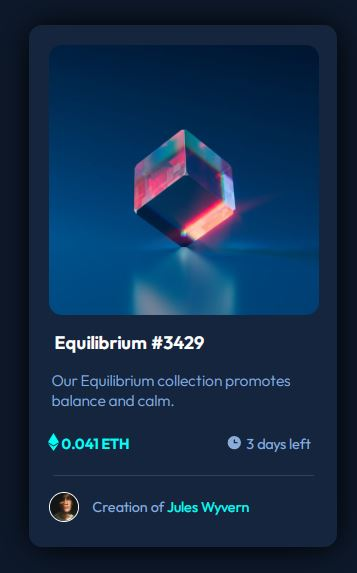
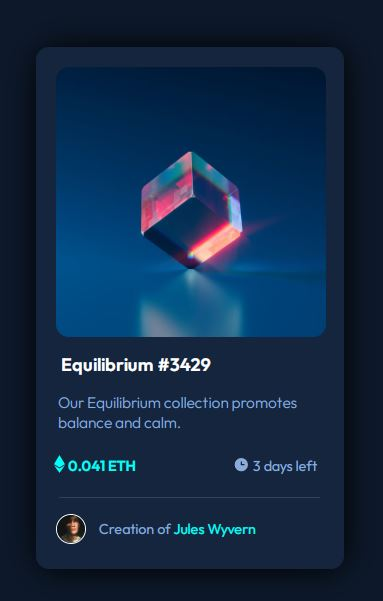
Centered card and README.md Update

diff --git a/style.css b/style.css
@@ -5,6 +5,10 @@
 body {
     background-color: hsl(217, 54%, 11%);
     box-sizing: border-box;
+    display: flex;
+    flex-direction: column;
+    align-items: center;
+    justify-content: center;
 }
 
 .content {

diff --git a/README.md b/README.md
@@ -10,18 +10,19 @@ This is a solution to the [NFT preview card component challenge on Frontend Ment
 
 ### Links
 
-- Solution URL: [Add solution URL here](https://your-solution-url.com)
+- Solution URL: [NFT Preview Card](https://dejair-velozo.github.io/nft-preview-card-component-main/)
 
 ### Built with
 
 - Semantic HTML5 markup
 - CSS custom properties
+- Flexbox
 
 ### What I learned
 
-I've learned more about Semantic HTML and plain CSS. I will keep practicing so i can improve even more.
+I've learned more about Semantic HTML, plain CSS and Flexbox. I will keep practicing so i can improve even more.
 
 ## Author
 
-- Frontend Mentor - [@yourusername](https://www.frontendmentor.io/profile/dejair-velozo)
+- Frontend Mentor - [@dejair-velozo](https://www.frontendmentor.io/profile/dejair-velozo)
 
